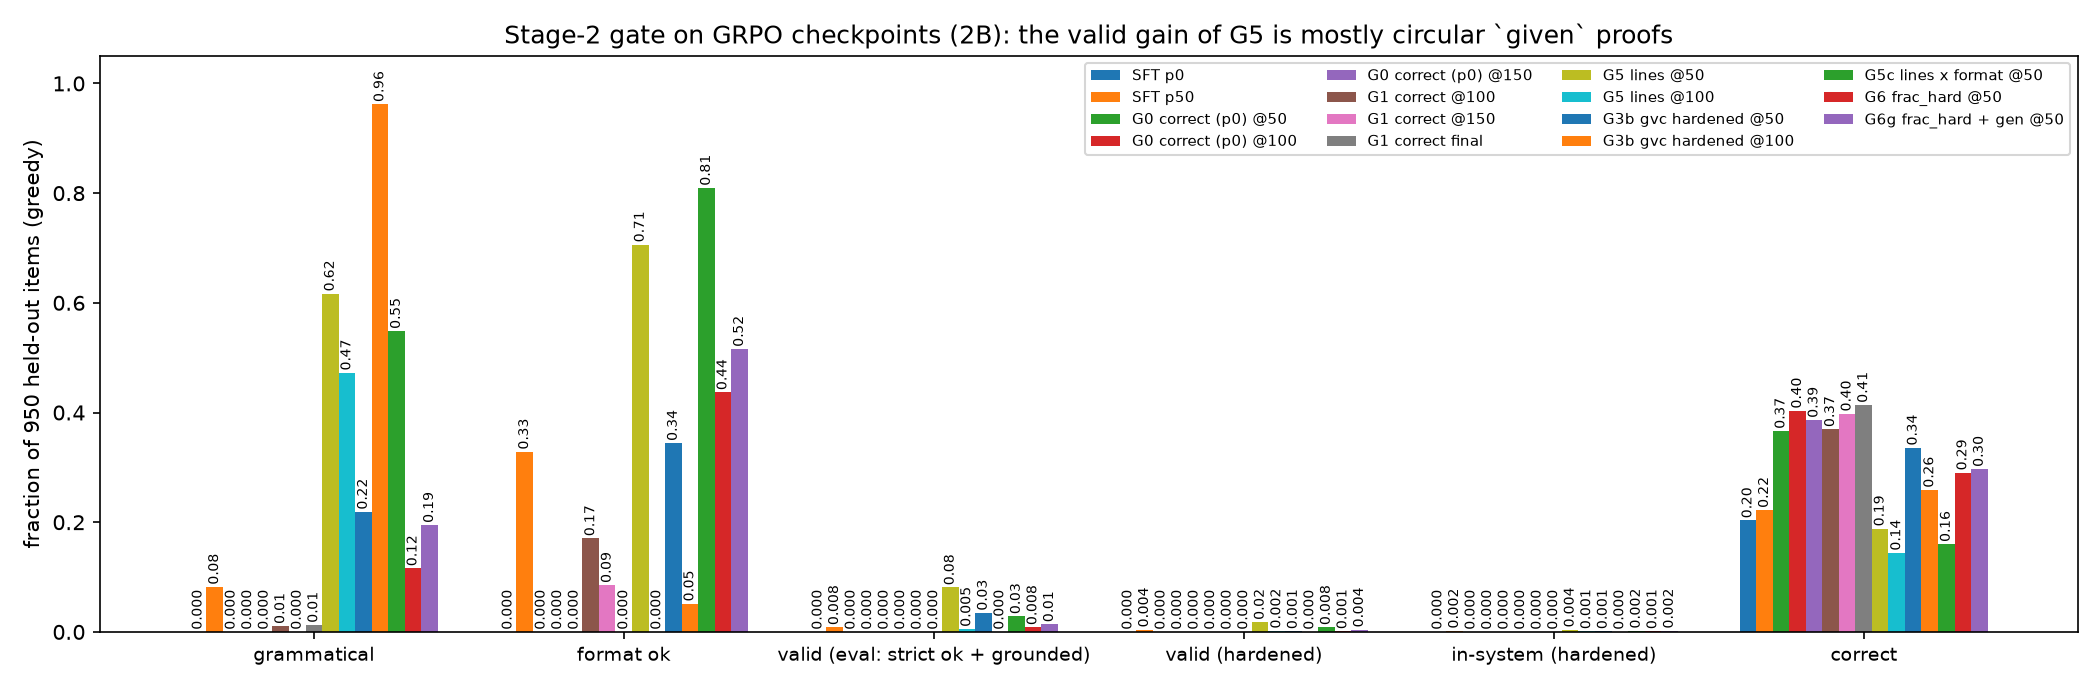
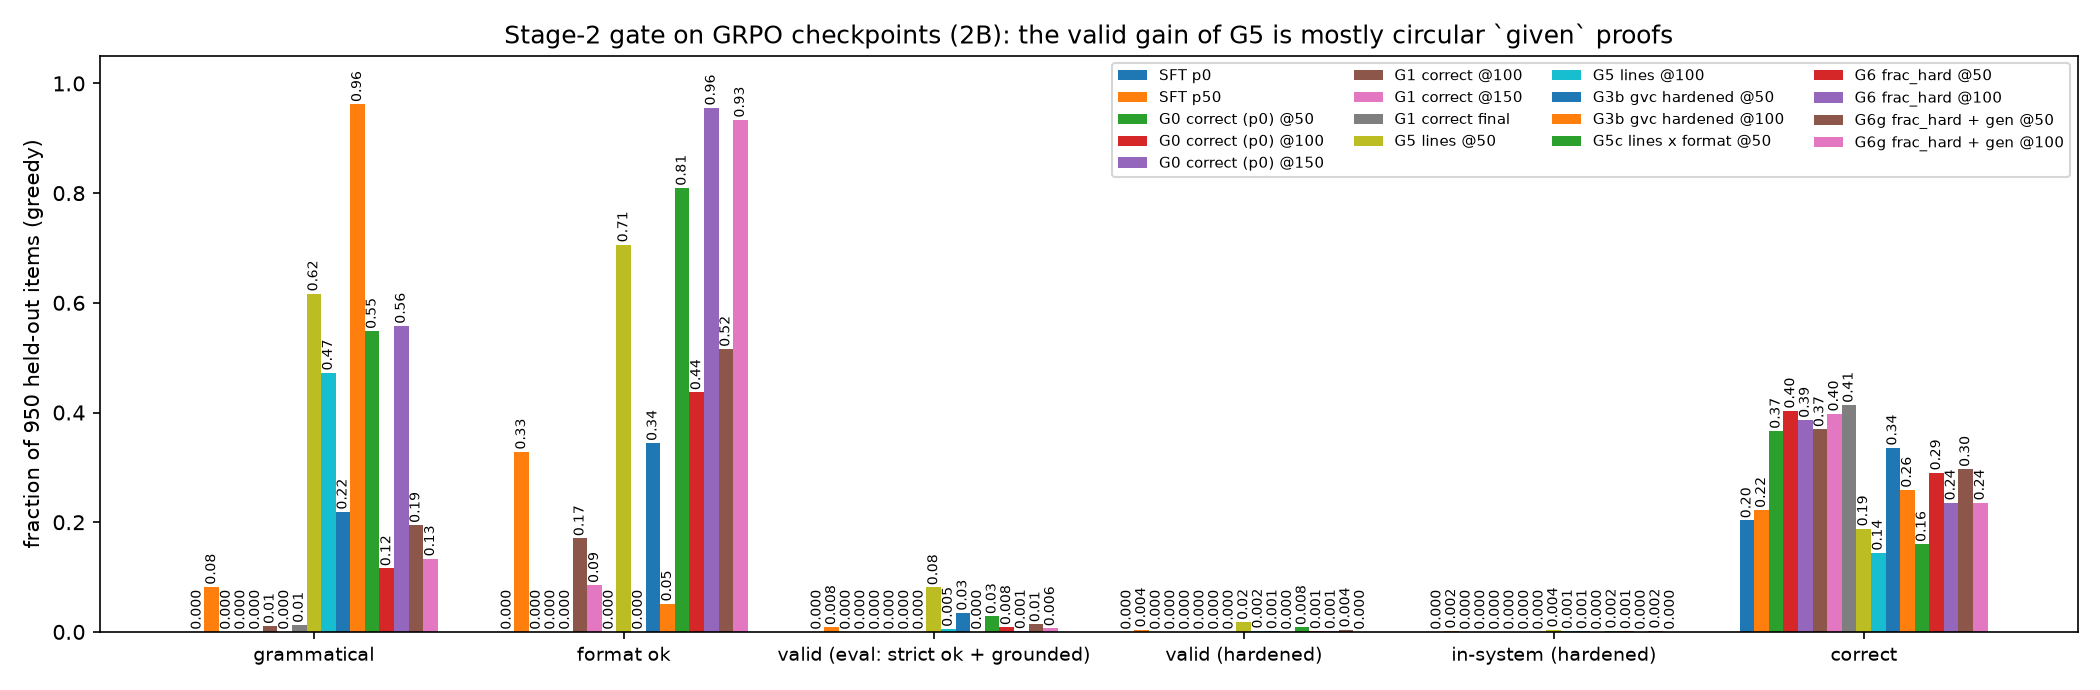
Stage 2: gate @100 for frac_hard arms (valid ~0, correct .236); G6h restarted as 7060
Claude-Session: https://claude.ai/code/session_01WnQYXLXLcnkw9LdZ4eJP3w

diff --git a/docs/current_system_state.md b/docs/current_system_state.md
@@ -9,7 +9,7 @@ This is the short operational handoff. Historical detail was preserved verbatim 
 - **Training:** Qwen3.5-Base 0.8B/2B at X=0..50 and 9B at X=0,10,25,50 are trained on Dolci with X% generated formal-CoT data.
 - **Evals:** in-domain faithful/grammatical/valid; untagged lm-eval downstream suite; format-tagged downstream eval (`eval_formal_bench_vllm.py`).
 - **Live state:** `docs/running_experiments.md`.
-- **Stage 2 (2026-09-28):** the gate failed (in_system ≈ 0.3% on the Dolci-RL prompts). The expert-iteration collection is done: prefix resampling solved 50 of 3,191 prompts, giving 77 proofs; the SFT is deferred. The GRPO pilots were restarted on a balanced prompt pool (`--max-per-bench 1200`) as 6960 (G1), 6962 (G0) and 6964 (G5 dense `lines`, gruenau12); 2B. G3 (6965) died at step 49 from an rlvl panic (fixed). The held-out gate on G5 @50 showed a circular-`given` hack, so `formal_rewards` now requires >= 1 derived line and no circular `given` for valid; the hardened arms are 6978 (G3b, gruenau12) and 7000 (G5c `lines_fmt`, gruenau8; also excludes tautological lines and zeroes the reward unless the output ends `</proof>` + `Answer:` line, after G5 padded and ran on past step 60). 6977 (G5b) cancelled. The user's fraction reward was audited (report update 21:00): plain `frac` pays an invented-premise 2-line proof 1.00 > gold .97; `frac_hard` (numeric premise check, format, no circular) floors all hacks except invented logic premises; exact faithfulness on generator items floors all. Arms: G6 (frac_hard Dolci) running as 7020 on gruenau9 A100 GPU0 (7006 OOMed on a shared L40; 7013 left no output); G6g (+ gen items) running as 7025 on gruenau10 A100 GPU0 (7007, 7009, 7021 died on shared GPUs). G6 samples at steps 92-95 exposed three more frac_hard loopholes (block headers with a broken body, `know`/`def` as unquoted premises, premise-free `calc` padding), all closed in 45c128d; G6h (7051, gruenau7) reruns G6g with the hardened reward. Gate queues on gruenau12: 7035 (G0@100, G3b@50, G5c@50, G3b@100, G5c@100, G0 final; 7026 failed these on an AttributeError, fixed bc4276f) and 7026 (G6@50). 9B p50 gate (6933): in-system .020, correct .316 (9B p0 .259); 9B p50 in-domain eval (7019): faithful .999, valid .983, answer .992 (2B p50 .827/.675/.874). 6964 (G5) cancelled at step 116. Foreign non-Slurm GPU processes: gruenau9 all A100s, gruenau10 GPU1-2, gruenau12 7 of 10 L40s (hallepat); `grpo_formal.slurm` has a MIN_FREE_MIB guard. GRPO code: `scripts/grpo_formal.py` + `.venv_rlvl_grpo`. Plan: `docs/research_plan.md`.
+- **Stage 2 (2026-09-28):** the gate failed (in_system ≈ 0.3% on the Dolci-RL prompts). The expert-iteration collection is done: prefix resampling solved 50 of 3,191 prompts, giving 77 proofs; the SFT is deferred. The GRPO pilots were restarted on a balanced prompt pool (`--max-per-bench 1200`) as 6960 (G1), 6962 (G0) and 6964 (G5 dense `lines`, gruenau12); 2B. G3 (6965) died at step 49 from an rlvl panic (fixed). The held-out gate on G5 @50 showed a circular-`given` hack, so `formal_rewards` now requires >= 1 derived line and no circular `given` for valid; the hardened arms are 6978 (G3b, gruenau12) and 7000 (G5c `lines_fmt`, gruenau8; also excludes tautological lines and zeroes the reward unless the output ends `</proof>` + `Answer:` line, after G5 padded and ran on past step 60). 6977 (G5b) cancelled. The user's fraction reward was audited (report update 21:00): plain `frac` pays an invented-premise 2-line proof 1.00 > gold .97; `frac_hard` (numeric premise check, format, no circular) floors all hacks except invented logic premises; exact faithfulness on generator items floors all. Arms: G6 (frac_hard Dolci) running as 7020 on gruenau9 A100 GPU0 (7006 OOMed on a shared L40; 7013 left no output); G6g (+ gen items) running as 7025 on gruenau10 A100 GPU0 (7007, 7009, 7021 died on shared GPUs). G6 samples at steps 92-95 exposed three more frac_hard loopholes (block headers with a broken body, `know`/`def` as unquoted premises, premise-free `calc` padding), all closed in 45c128d; G6h (7060, gruenau7; gate @100: G6/G6g valid ~0, correct .236 vs G0 .40) reruns G6g with the hardened reward. Gate queues on gruenau12: 7035 (G0@100, G3b@50, G5c@50, G3b@100, G5c@100, G0 final; 7026 failed these on an AttributeError, fixed bc4276f) and 7026 (G6@50). 9B p50 gate (6933): in-system .020, correct .316 (9B p0 .259); 9B p50 in-domain eval (7019): faithful .999, valid .983, answer .992 (2B p50 .827/.675/.874). 6964 (G5) cancelled at step 116. Foreign non-Slurm GPU processes: gruenau9 all A100s, gruenau10 GPU1-2, gruenau12 7 of 10 L40s (hallepat); `grpo_formal.slurm` has a MIN_FREE_MIB guard. GRPO code: `scripts/grpo_formal.py` + `.venv_rlvl_grpo`. Plan: `docs/research_plan.md`.
 
 ## Where To Look
 

diff --git a/docs/experiment_backlog.md b/docs/experiment_backlog.md
@@ -8,7 +8,7 @@ This file is for planned work that is not yet running. Running jobs live in `doc
 
 | Priority | Item | Why | Trigger |
 | --- | --- | --- | --- |
-| Next 2026-09-28 | Stage 2 GRPO arms G0–G5, full runs (`scripts/grpo_formal.py`) | Research plan Stage 2 | After the gate passes (EI bootstrap and 200-step balanced-pool pilots G1 6960, G0 6962, G5 6964 running; hardened-validity arms G3b 6978 / G5c 7000 (lines x format gate; G5b 6977 cancelled); fraction-reward arms G6 7020 (7006 OOM, 7013 no output) (frac_hard, Dolci) / G6g 7025 (7007/7009/7021 died on shared GPUs); G6h 7051 (frac_hard with the line_stats loopholes closed, 45c128d); gate queues 7026 (G6@50) / 7035 (frac_hard + generator items with exact faithfulness); next: semantic premise check for Dolci logic premises; see `reports/2026-09-28_stage2_gate.md`) |
+| Next 2026-09-28 | Stage 2 GRPO arms G0–G5, full runs (`scripts/grpo_formal.py`) | Research plan Stage 2 | After the gate passes (EI bootstrap and 200-step balanced-pool pilots G1 6960, G0 6962, G5 6964 running; hardened-validity arms G3b 6978 / G5c 7000 (lines x format gate; G5b 6977 cancelled); fraction-reward arms G6 7020 (7006 OOM, 7013 no output) (frac_hard, Dolci) / G6g 7025 (7007/7009/7021 died on shared GPUs); G6h 7060 (frac_hard with the line_stats loopholes closed, 45c128d); gate queues 7026 (G6@50) / 7035 (frac_hard + generator items with exact faithfulness); next: semantic premise check for Dolci logic premises; see `reports/2026-09-28_stage2_gate.md`) |
 | Running 2026-09-25 | Formal-CoT SFT mixture sweep: 0.8B and 2B, X=0..50 | Lane layout, see `docs/running_experiments.md`. The 9B runs (X=0,10,25,50) run on gruenau11 with 2 × H100 under DeepSpeed ZeRO-2 CPU-offload + liger FLCE (FSDP OOMed; jobs 6837/6839/6841/6843). Downstream benchmarks for all cells run on guppi lanes (2026-09-26). | Run `scripts/analysis/analyze_formal_mixture_sweep.py` and `scripts/analysis/formal_mix_bench_table.py` as cells finish. Inspect raw generations. |
 | Pending 2026-09-26 | Format-tagged benchmarks for every sweep checkpoint (0.8B, 2B, 9B) | Measures whether models reason fully in the system on real benchmarks: grammatical, valid and in-system correct. The untagged lm-eval run only measures transfer. | Submit with `scripts/submit_formal_mix_bench_lanes.sh --tagged --chain ...` once Slurm is back and the smoke run (PER_BENCH_LIMIT=5) looks sane. Then run `scripts/analysis/formal_mix_tagged_table.py`. |
 | P0 sampled readout complete 2026-08-07 | Real-benchmark pass@k / maj@k readout for the three-way post-SFT checkpoints | `3962322_[0-5%3]` completed `0:0`; all six full-coverage audits accept corrected RoPE, prompt hashes, 16 samples/doc, and zero truncation. Raw correct/incorrect examples across all five tasks reproduce the established answer-boundary confound. Standard pass@16 control/logic/NL is `0.7588/0.7540/0.7621`; tagged multi-hop is `0.5150/0.5383/0.5283`, with sampled tag rates `0.6445/0.8346/0.8440` and fallback `0.5317/0.5417/0.5317`. | Diagnostic is ingested in `analysis/dolmino_threeway_post_sft_readout_20260806.md` and does not alter the one-run null-for-reasoning verdict. Do not use sampled pass@k/maj@k as a positive transfer claim or launch the percentage grid; P0 remains the compact/document-preserving loader gate. |

diff --git a/docs/running_experiments.md b/docs/running_experiments.md
@@ -21,7 +21,7 @@ This file is the live Slurm dashboard. Historical details live in `docs/operatio
   - 2026-09-28 21:45: 6840 (9B p50 formal eval) failed at vLLM start (Mamba cache blocks 219 < max_num_seqs 256 on a shared L40); resubmitted as 7019 with MAX_NUM_SEQS=128. 9B p50 gate 6933 done (in-system .020, correct .316). G6 resubmitted as 7020 (gruenau9 A100, MIN_FREE_MIB=60000); G6g 7021 guard exit on gruenau10.
   - 2026-09-28 22:55: 7019 (9B p50 formal eval) done: valid .983. G6g resubmitted as 7025 (gruenau10 A100, passed guard). 7026 grpo_gate (gruenau12 L40, 8 CPU / 60G) gates G0@100, G3b@50, G5c@50, G3b@100, G6@50 in turn.
   - 2026-09-29 00:05: 7026's first four gates and tagged evals 6919/6921 failed on an AttributeError (max_num_seqs; fixed bc4276f). 6920 cancelled. Resubmitted 7032/7033 (2B p20/p40 tagged, guppi8), 7034 (2B p45 tagged, guppi5), 7035 (gate queue, gruenau12: G0@100, G3b@50, G5c@50, G3b@100, G5c@100, G0 final). 7026 now only waits for G6@50.
-  - 2026-09-29 02:40: frac_hard hardened (45c128d): block headers check only with their whole body; `know/def/obs/assume` earn no credit, a rejected one counts as failed, and their numbers are checked; premise-free ground `calc` counts as a tautology. **7051 G6h** (`RUN_NAME=2b_p50_G6h_frachard_hardened`, G6g config, gruenau7 A6000, partition gpu; 7050 on gruenau12 hit the guard on a shared L40, 8 CPU / 60G, MIN_FREE_MIB=44000). G6 7020 / G6g 7025 continue on the old code for comparison.
+  - 2026-09-29 02:40: frac_hard hardened (45c128d): block headers check only with their whole body; `know/def/obs/assume` earn no credit, a rejected one counts as failed, and their numbers are checked; premise-free ground `calc` counts as a tautology. **7060 G6h** (7051 OOM: batch args omitted; 7059 guard) (`RUN_NAME=2b_p50_G6h_frachard_hardened`, G6g config, gruenau7 A6000, partition gpu; 7050 on gruenau12 hit the guard on a shared L40, 8 CPU / 60G, MIN_FREE_MIB=44000). G6 7020 / G6g 7025 continue on the old code for comparison.
   - 2026-09-28 21:00: **7006 G6 `--arm frac_hard` (gruenau12 L40, partition gpu-staff)** on Dolci math/wordprob/yesno; **7009 G6g `--arm frac_hard --benches gen,dolci_math,dolci_wordprob,dolci_yesno` (gruenau10 A100, partition gpu, `--cpus-per-task=8 --mem=60G`; 7007 died on gruenau9, where a foreign process fills the A100s; 7008 cancelled because 100G needs 13 CPUs at MaxMemPerCPU=8G)**. Both 2B p50, batch 1, vllm-mem 0.25, 200 steps, save every 50. frac_hard = ((%parsed + %checked derived lines) x premise ok x format ok x not circular + correct) / 3; premise ok = numbers in each `given` occur in its quote, or exact faithfulness on gen items.
   - Question: does a dense line-credit reward (user suggestion, hardened) raise grammatical/valid rates before EI yields enough proofs?
 - **Gate on GRPO checkpoints** (17:10, `scripts/slurm/jobs/grpo_gate_ckpts_in_6964.sh`, run with `srun --jobid 6964 --overlap` on the allocation's otherwise idle third L40, so no extra GPU): G5 ckpt-50, G1 ckpt-100, G0 ckpt-50, output `<run>/<ckpt>/rl_gate_dolci/`. Log `logs/grpo_gate_ckpts_6964.log`.

diff --git a/reports/2026-09-28_stage2_gate.md b/reports/2026-09-28_stage2_gate.md
@@ -471,3 +471,27 @@ Checks:
 - Gate rescored with the new code: G6@50 circular .055 → .086, because `know`/`obs` restatements of the goal now count. Nothing else moved.
 
 **G6h** (7051, gruenau7 A6000; 7050 on gruenau12 hit the shared-GPU guard): G6g config (frac_hard, gen + Dolci math/wordprob/yesno, 2B p50, 200 steps) with the hardened `line_stats`. G6/G6g keep running on the old code as the comparison arms.
+
+## Update 03:45 — gate at step 100 for the frac_hard arms; G6h restarted
+
+The gate is 950 held-out items, greedy, rescored with the hardened `line_stats` (45c128d).
+
+| model | proof written | grammatical | format ok | circular | valid (hardened) | correct |
+|---|---|---|---|---|---|---|
+| SFT p50 | .399 | .082 | .328 | .054 | .004 | .222 |
+| G0 correct (p0) @100 | 0 | 0 | 0 | 0 | 0 | .403 |
+| G6 frac_hard @50 | .512 | .116 | .437 | .086 | .001 | .291 |
+| G6 frac_hard @100 | .999 | .558 | .956 | .107 | .001 | .236 |
+| G6g frac_hard + gen @50 | .562 | .195 | .516 | .061 | .004 | .297 |
+| G6g frac_hard + gen @100 | .988 | .134 | .934 | .093 | .000 | .236 |
+
+Reading:
+- frac_hard does what its dense part rewards: a proof on every item, in the right format; G6 is grammatical on 56%.
+- Validity does not follow: 0–0.1% on held-out items.
+- Correctness falls from ~.29 (@50) to .236 (@100), close to SFT p50 (.222) and far below G0 (.40).
+- On the rl_gate prompts, the ≥ 1/3 of the reward that line credit pays is earned by grammatical-but-wrong proofs faster than by correct answers.
+- The loopholes closed in 45c128d explain part of the line credit, not the lack of validity.
+
+Implication: a dense line reward does not bridge the gap from ~0.3% valid. Rewarding validity needs valid samples to exist first (EI / prefix-search SFT), or a curriculum on generator items where the 2B model is already valid 67%.
+
+G6h: 7051 OOMed because I submitted it without G6g's batch args (default per-device batch 8). 7059 hit the guard (a foreign llama-server appeared on gruenau7). Running as **7060** with G6g's exact args (`--max-per-bench 1200 --max-steps 200 --save-steps 50 --per-device-batch 1 --vllm-mem 0.25`), MIN_FREE_MIB=40000.

diff --git a/docs/project_log.md b/docs/project_log.md
@@ -4171,3 +4171,4 @@ Downstream benchmarks of the "Lead into Gold" paper now run for every checkpoint
 ## 2026-09-29 02:40 — frac_hard hardening (45c128d), G6h
 - Three loopholes found in G6 samples at steps 92–95: block headers ok with a broken body; trusted rules (`know`, `def`) used as unquoted premises; premise-free ground `calc` padding. All closed in `scripts/formal_rewards.line_stats`. Gold: 0 false premise rejections, frac_ok .976 → .946. Replay: G6 high-credit invalid samples 105 → 55, G6g 227 → 84; valid samples keep full credit. Details: reports/2026-09-28_stage2_gate.md, "Update 02:40".
 - Launched G6h (7051; 7050 hit the shared-GPU guard): G6g config with the hardened reward.
+- 03:45: gate @100: G6/G6g write a proof on ~every item (format ok ≥ .93) but hardened valid ≤ .001 and correct .236 (G0 .40). Dense line credit does not bridge to validity. G6h restarted as 7060 with G6g's exact args (7051 OOMed on default batch 8).
